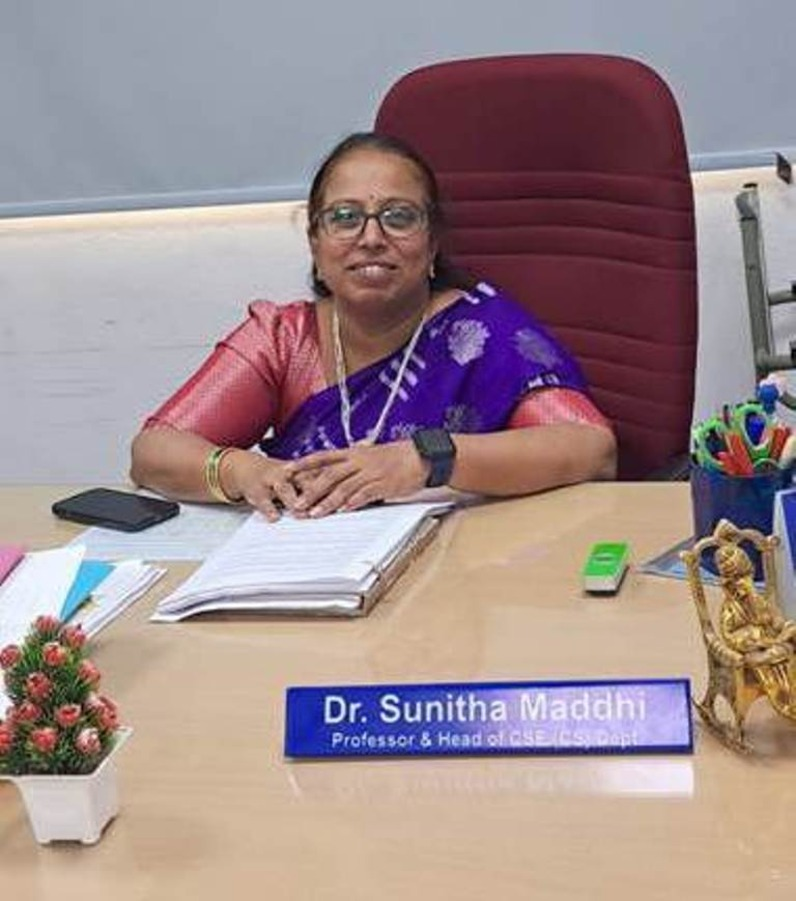
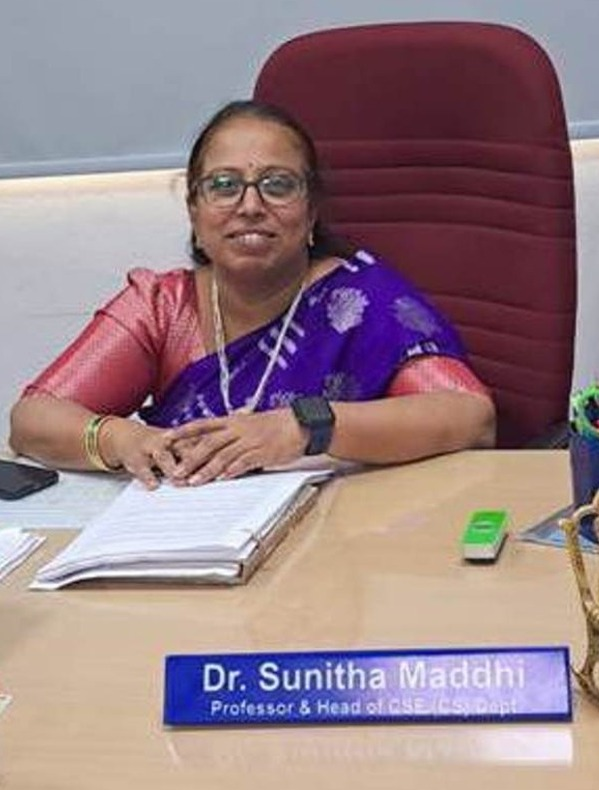
changes in HoD image

diff --git a/src/pages/Home.js b/src/pages/Home.js
@@ -194,7 +194,7 @@ return (
                     <Row className="g-1 align-items-center">
                         <Col lg={5} className="d-flex justify-content-center">
                         {/* Placeholder for HoD's Photo */}
-                        <img src="dept-images/HOD.jpg" alt="HoD's Photo" className="profile-img-hod" />
+                        <img src="dept-images/HOD(1).jpg" alt="HoD's Photo" className="profile-img-hod" />
                         </Col>
                         <Col lg={6}>
                         {/* <Card.Title as="h2" class="hod-name" >Dr. Sunitha Maddhi (Professor and HOD)</Card.Title> */}
